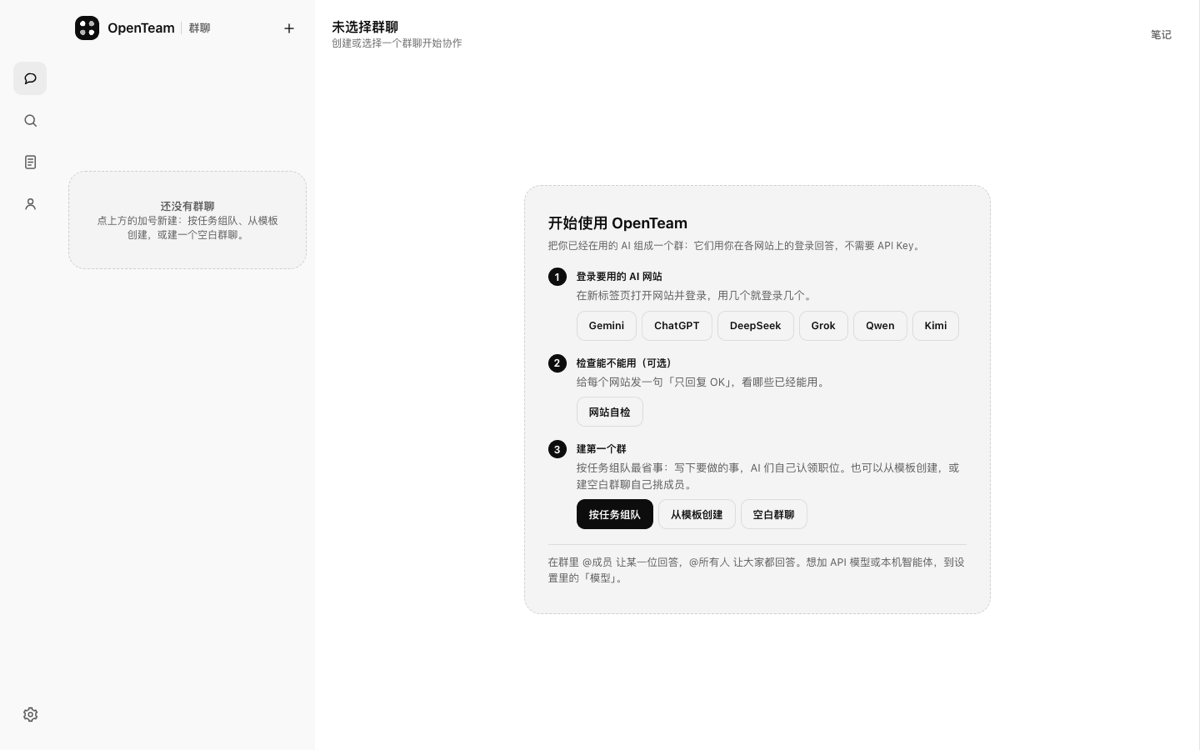
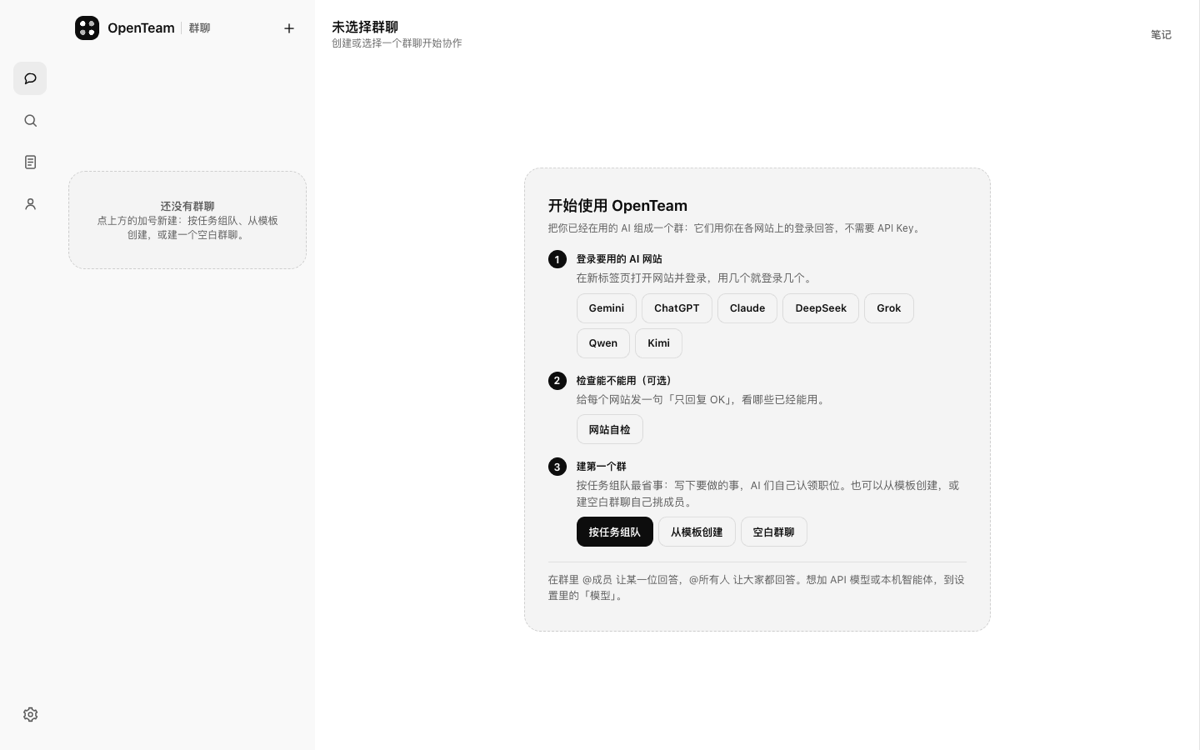
fix: Claude's web page works as a member; check it and say so
Claude web members reply normally (one answered 12 of 12 times, the
latest on 11-16), but the README said claude.ai refused to run inside
other pages, and the site check and first-run guide left it out. Both
now include Claude; the README lists seven sites and says only that a
site may refuse, which the member's status then shows.

Changed region(s): [[0.4317, 0.2453, 0.8017, 0.7973], [0.7708, 0.4293, 0.8017, 0.46]]

diff --git a/src/background/siteCheckHandlers.test.ts b/src/background/siteCheckHandlers.test.ts
@@ -21,7 +21,7 @@ async function setup(options: { failOn?: string; readyAfter?: Record<string, num
   const broadcastStoreUpdated = vi.fn()
   let clock = new Date(2026, 10, 17, 9, 5).getTime()
   let checks = 0
-  const readyAfter = options.readyAfter ?? Object.fromEntries(['gemini', 'chatgpt', 'deepseek', 'grok', 'qwen', 'kimi'].map(site => [site, 0]))
+  const readyAfter = options.readyAfter ?? Object.fromEntries(['gemini', 'chatgpt', 'claude', 'deepseek', 'grok', 'qwen', 'kimi'].map(site => [site, 0]))
   const runtimeFrames = {
     getByRole: (_chatId: string, roleId: string) => {
       const site = store.rolesById[roleId]?.chatSite ?? ''
@@ -59,7 +59,7 @@ async function setup(options: { failOn?: string; readyAfter?: Record<string, num
 
 describe('background site check', () => {
   it('makes a group with one member on each site, marks it, opens it and asks everyone to reply OK once their pages are ready', async () => {
-    const { store, routes, routed, start, broadcastStoreUpdated, SITE_CHECK_ROUTE_TYPES, checksAtSend } = await setup({ readyAfter: { gemini: 0, chatgpt: 1, deepseek: 3, grok: 2, qwen: 0, kimi: 1 } })
+    const { store, routes, routed, start, broadcastStoreUpdated, SITE_CHECK_ROUTE_TYPES, checksAtSend } = await setup({ readyAfter: { gemini: 0, chatgpt: 1, claude: 1, deepseek: 3, grok: 2, qwen: 0, kimi: 1 } })
     expect(routes.map(entry => entry.type)).toEqual(SITE_CHECK_ROUTE_TYPES)
 
     // Answers as soon as the group is open; the question goes out once every page is ready.
@@ -68,7 +68,7 @@ describe('background site check', () => {
     await vi.waitFor(() => expect(routed.map(message => message.type)).toEqual(['GROUP_CHAT_CREATE', 'GROUP_ROLES_CREATE_BATCH', 'GROUP_CHAT_SWITCH', 'GROUP_MESSAGE_SEND']))
     expect(routed[0]).toMatchObject({ name: '网站自检 11-17 09:05', mode: 'independent' })
     const items = routed[1].items as Array<Record<string, unknown>>
-    expect(items.map(item => item.chatSite)).toEqual(['gemini', 'chatgpt', 'deepseek', 'grok', 'qwen', 'kimi'])
+    expect(items.map(item => item.chatSite)).toEqual(['gemini', 'chatgpt', 'claude', 'deepseek', 'grok', 'qwen', 'kimi'])
     expect(items[0]).toMatchObject({ source: 'temporary', name: 'Gemini', modelSource: 'site' })
     expect(routed[2]).toMatchObject({ chatId: 'chat-check' })
     expect(routed[3]).toMatchObject({ chatId: 'chat-check', raw: expect.stringMatching(/^@all .*OK/) })

diff --git a/src/teamPage/messagesView.test.ts b/src/teamPage/messagesView.test.ts
@@ -230,8 +230,8 @@ describe('team page messages view boundary', () => {
 
     // One button per site that opens inside OpenTeam; each opens that site to sign in.
     const siteButtons = [...steps[0].querySelectorAll<HTMLButtonElement>('button')]
-    expect(siteButtons.map(button => button.textContent)).toEqual(['Gemini', 'ChatGPT', 'DeepSeek', 'Grok', 'Qwen', 'Kimi'])
-    siteButtons[2].click()
+    expect(siteButtons.map(button => button.textContent)).toEqual(['Gemini', 'ChatGPT', 'Claude', 'DeepSeek', 'Grok', 'Qwen', 'Kimi'])
+    siteButtons[3].click()
     expect(openSiteLogin).toHaveBeenCalledWith('deepseek')
 
     steps[1].querySelector<HTMLButtonElement>('button')!.click()

diff --git a/src/group/siteCheck.ts b/src/group/siteCheck.ts
@@ -4,8 +4,8 @@
 import { CHAT_SITE_INFO, CHAT_SITES, type ChatSite } from './chatSites'
 import type { GroupChat, OpenTeamLanguage, OpenTeamStore } from './types'
 
-// Every site that can open inside OpenTeam: claude.ai refuses to run inside other pages.
-export const SITE_CHECK_SITES: ChatSite[] = CHAT_SITES.filter(site => site !== 'claude')
+// Every AI site OpenTeam opens. A site that refuses to run inside the page shows as a page problem.
+export const SITE_CHECK_SITES: ChatSite[] = [...CHAT_SITES]
 
 // A site that has not replied by then is reported as not answering. Slow sites take minutes (Qwen
 // took three in a live check), so this is longer than that.

diff --git a/src/group/siteCheck.test.ts b/src/group/siteCheck.test.ts
@@ -30,8 +30,8 @@ function checkStore(sites: ChatSite[]) {
 }
 
 describe('the site check', () => {
-  it('checks every site that can open inside OpenTeam, which leaves out Claude', () => {
-    expect(SITE_CHECK_SITES).toEqual(['gemini', 'chatgpt', 'deepseek', 'grok', 'qwen', 'kimi'])
+  it('checks every AI site OpenTeam opens', () => {
+    expect(SITE_CHECK_SITES).toEqual(['gemini', 'chatgpt', 'claude', 'deepseek', 'grok', 'qwen', 'kimi'])
   })
 
   it('says how each site did', () => {

diff --git a/README.md b/README.md
@@ -4,7 +4,7 @@
 
 > **Origin.** This project is based on **OpenTeam** by **[afumu](https://github.com/afumu)** (original repository: [afumu/openteam](https://github.com/afumu/openteam)). The original code, design and documentation belong to afumu and the OpenTeam contributors and remain under the [PolyForm Noncommercial License 1.0.0](LICENSE) (`Required Notice: Copyright (c) 2026 OpenTeam contributors.`).
 
-> A local-first AI team workspace: put ChatGPT, Gemini, DeepSeek, Grok, Qwen, Kimi, API models and local coding agents in one group chat, and let them discuss, review each other and work through a project together.
+> A local-first AI team workspace: put ChatGPT, Gemini, Claude, DeepSeek, Grok, Qwen, Kimi, API models and local coding agents in one group chat, and let them discuss, review each other and work through a project together.
 
 OpenTeam is a Manifest V3 Chrome extension. Most members need no API key: OpenTeam reuses the AI websites you are already signed in to, sends each member its task inside that site, and gathers the replies in one shared chat. When you want them, API models and local agents such as Claude Code or Codex can join the same group.
 
@@ -17,7 +17,7 @@ Use it for learning, research and personal non-commercial work where one answer 
 **A team made of the AIs you already use**
 
 - **No API tokens needed**: web members use your existing AI website sessions.
-- **Six AI websites**: Gemini, ChatGPT, DeepSeek, Grok, Qwen and Kimi as group members, each in its own page; a member can be moved to another site or model at any time.
+- **Seven AI websites**: Gemini, ChatGPT, Claude, DeepSeek, Grok, Qwen and Kimi as group members, each in its own page; a member can be moved to another site or model at any time.
 - **API members**: add any OpenAI- or Anthropic-compatible model. Presets fill in the address for DeepSeek, Gemini, OpenAI, Claude, Qwen, Zhipu, Kimi, Doubao, OpenRouter and SiliconFlow, and the model list is fetched from the provider. A backup model answers when the main one is busy, rate-limited or out of quota. Each reply shows the tokens it used, and a failed request shows the server's own reason.
 - **Local agents as members**: Claude Code, Codex or another ACP agent works in a folder you allow, through the local daemon. Every run, file edit and command waits for your approval, and agents that share a folder take turns.
 - **Team up for a task**: describe the task, pick the AIs, and each chooses its position; you confirm the roles before work starts.
@@ -74,7 +74,7 @@ flowchart TB
   bg <-->|prompts and live replies| cs["Content script and site adapter<br/>in each AI page"]
   bg <-->|HTTPS| api["API models<br/>OpenAI or Anthropic format"]
   bg <-->|WebSocket, 127.0.0.1| daemon["Local daemon<br/>openteamcli"]
-  cs <--> web["ChatGPT / Gemini / DeepSeek<br/>Grok / Qwen / Kimi"]
+  cs <--> web["ChatGPT / Gemini / Claude / DeepSeek<br/>Grok / Qwen / Kimi"]
   daemon <-->|ACP| agents["Claude Code / Codex<br/>in a folder you allow"]
   cli["Your agent using openteamcli"] -->|HTTP, 127.0.0.1| daemon
 ```
@@ -103,11 +103,11 @@ API members are called directly from the extension; local agents run through the
 | --- | --- |
 | Gemini | Long context, research, multimodal material |
 | ChatGPT | General execution, fast iteration |
+| Claude | Long documents, review, structured writing, careful reasoning |
 | DeepSeek | Code, reasoning, Chinese-language work |
 | Grok | Current events, alternative phrasing |
 | Qwen | Chinese and multilingual writing, code, long documents (chat.qwen.ai) |
 | Kimi | Long documents, Chinese-language research and writing (www.kimi.com) |
-| Claude | claude.ai refuses to run inside other pages, so add Claude as an API member (Anthropic format) |
 
 These are practical defaults, not rankings. Quality depends on model versions, account plans, task type and input.
 
@@ -195,7 +195,7 @@ Attached images are stored in the browser (IndexedDB) and uploaded only when you
 - Chrome / Chromium only.
 - AI-site adapters depend on each site's page structure, so a redesign can break sending or reading replies.
 - Embedding sites needs response-header changes through `declarativeNetRequest`, a heavier permission than a normal extension.
-- Some sites refuse to run inside other pages on purpose (claude.ai today). OpenTeam shows this on the member's status and does not work around it.
+- A site can refuse to run inside other pages. OpenTeam shows this on the member's status and does not work around it; such a model can still join as an API member.
 - Signed-out sessions have limits: signed-out Gemini does not send images, and signed-out Grok asks you to sign in before drawing.
 - Voice input needs a network connection.
 - Famous-person advisor templates are prompts inspired by public ideas, not real people.
